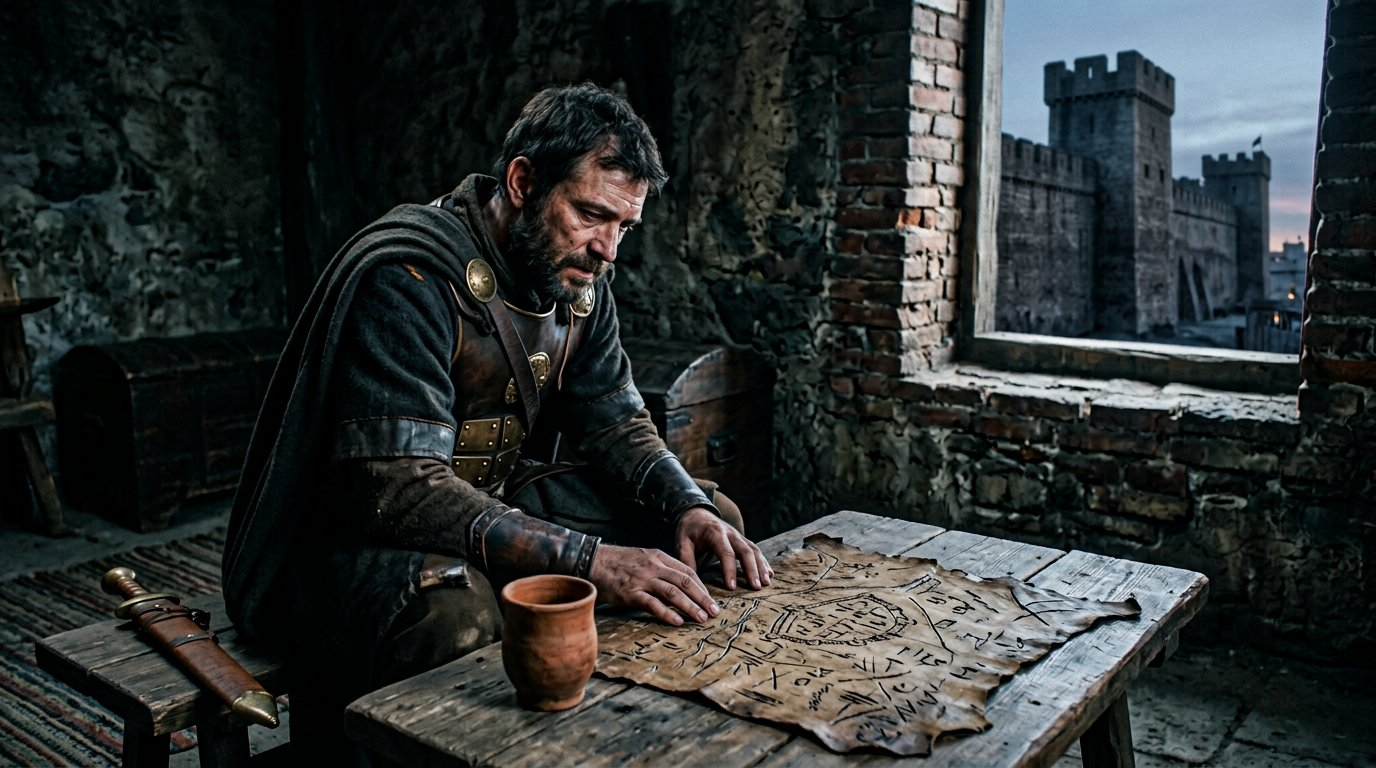
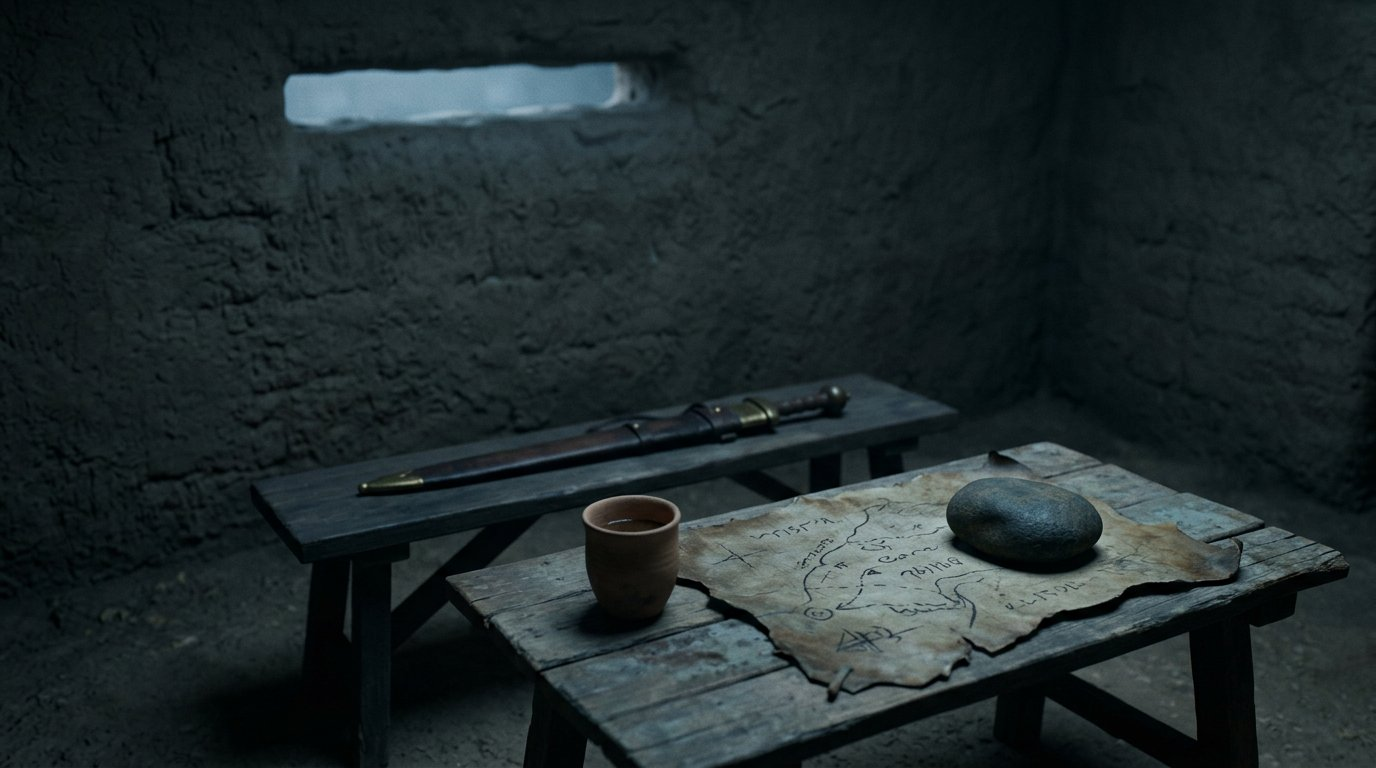
fix(ep002): the window rule holds, sixty-three of seventy now verified
Ten plates regenerate against the world anchor and all ten are usable. The
officer's desk lost both the castle and the man. The council is now shot up a
long table from behind a row of hooded heads, faces lost in shadow. The
watchtower is a guard's sandalled feet over a parapet with no face in frame
at all.

Two plates are passed with a note rather than silently.

Scene 025 carries rows of invented cut marks. That is correct here: the ban
on lettering came from scene 044, where legible English was burned into the
frame, while this block's narration is a treaty of forty clauses with a
forbidden word. A written treaty is the subject of the shot.

Scene 039 has a rectangular window with sky beyond it. It is a stone slot,
not a castle, and the clerk is seen from behind, so nothing leaks.

Seven plates remain: 048, 053, 054, 058, 061, 062 and 065.

diff --git a/docs/ART_WORLD_AUDIT.md b/docs/ART_WORLD_AUDIT.md
@@ -77,19 +77,30 @@ a window. Both should be composed so no face is legible.
 
 ## Status
 
-Verified good (32):
+Verified good (63 of 70):
 
-    001 004 006 007 009 010 012 013 014 015 016 019 020 021 024 025 029 033
-    037 041 043 052
+    001 004 006 007 009 010 012 013 014 015 016 017 019 020 021 024 025 029
+    031 033 035 036 037 038 039 041 042 043 052
 
-Re-shoot needed (4): 006 (drawn too close to a Levantine market with
-draped headcloths), 017 (a legible actor-like face and a crenellated
-medieval keep in the window), 025 (rows of glyphs that read as lettering,
-which the film forbids), 031 (four legible faces).
+plus the thirty that were never wrong: the coin macro, the pyramid, the
+strait, the fleet, the jar, the ruins, the closing plates.
 
-Directions rewritten and awaiting regeneration (4): 006 017 025 031
+Still to regenerate (7):
 
-Never yet regenerated (9): 035 036 038 039 041 042 048 053 062 065
+    048 053 054 058 061 062 065
+
+### Two judgement calls, recorded rather than buried
+
+**025 carries an invented script and is correct.** It shows a treaty roll with
+rows of cut marks and stamped seals. The earlier ban on lettering came from
+scene 044, where *legible English* was burned into the frame by accident. Here
+the marks are a non-Latin invented script and the narration for this block is
+a treaty of forty clauses with a forbidden word — a written treaty is what
+the shot is of. Banning text outright would have banned the subject.
+
+**039 has a rectangular window with sky in it.** Soft pass. It is a stone
+slot, not a castle, nothing in the view leaks a second world, and the clerk is
+seen from behind. It is noted because 017 failed in exactly this position.
 
 ## What the third pass taught
 
